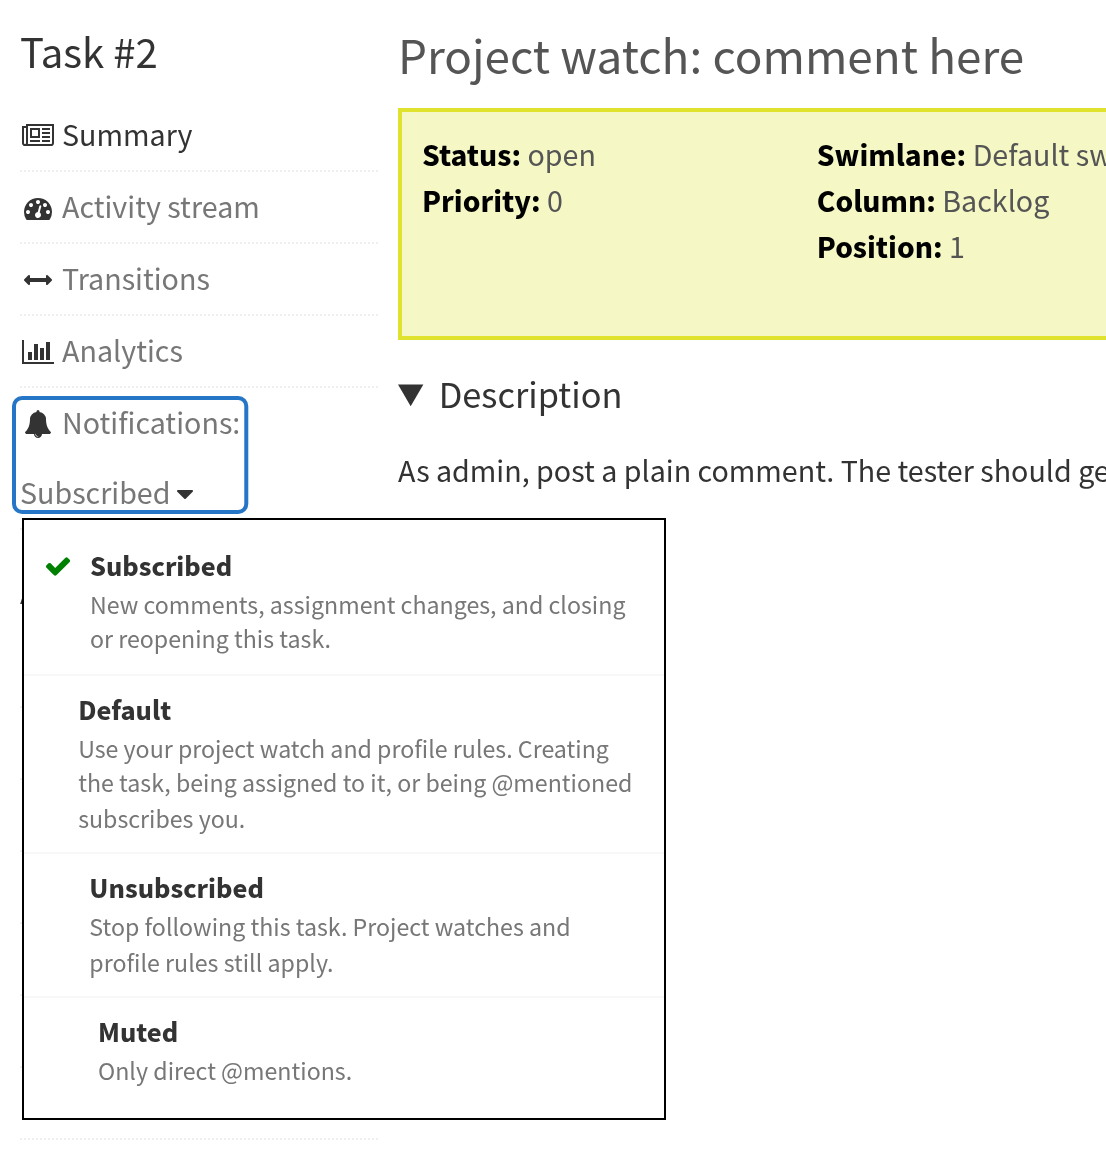
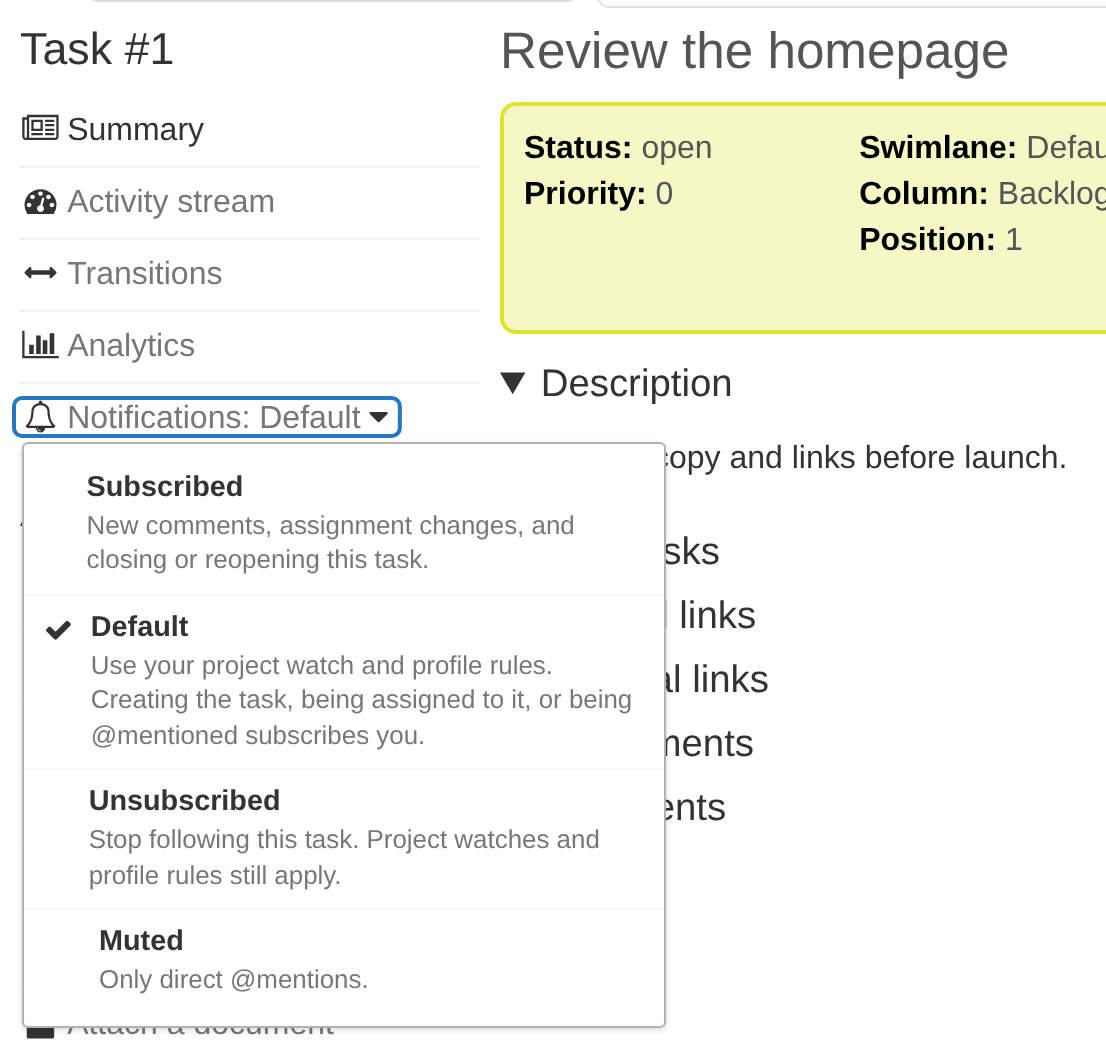
Generate notification screenshots from an isolated demo

diff --git a/scripts/screenshot-demo.php b/scripts/screenshot-demo.php
@@ -1,0 +1,40 @@
+<?php
+
+if (PHP_SAPI !== 'cli') {
+    http_response_code(404);
+    exit(1);
+}
+
+// The runner supplies a fresh data directory and runs this from the staged Plan root.
+$dataDir = getenv('DATA_DIR');
+if (!$dataDir || !is_dir($dataDir) || file_exists($dataDir.'/db.sqlite')) {
+    throw new RuntimeException('Screenshot fixtures require a fresh data directory.');
+}
+
+require getcwd().'/app/common.php';
+
+$admin = $container['userModel']->getByUsername('admin');
+$container['userSession']->initialize($admin);
+$project = $container['projectModel']->create(['name' => 'Website refresh'], $admin['id'], true);
+if (!$project) {
+    throw new RuntimeException('Could not create the demo project.');
+}
+
+$task = $container['taskCreationModel']->create([
+    'project_id' => $project,
+    'title' => 'Review the homepage',
+    'description' => 'Check the copy and links before launch.',
+]);
+$otherTask = $container['taskCreationModel']->create([
+    'project_id' => $project,
+    'title' => 'Update the navigation',
+    'color_id' => 'blue',
+]);
+
+// Creating the task auto-subscribes the demo user. Reset it to show “Default” in the screenshot.
+$preferences = $container['subscriptionModel'];
+if (!$task || !$otherTask || !$preferences->save($preferences::TASK, $task, $admin['id'], $preferences::INHERIT)) {
+    throw new RuntimeException('Could not seed the demo tasks.');
+}
+
+echo json_encode(['projectId' => $project, 'taskId' => $task], JSON_THROW_ON_ERROR), PHP_EOL;

diff --git a/README.md b/README.md
@@ -70,15 +70,15 @@ The test uses an in-memory SQLite database and captures outgoing email after cor
 
 ### Refresh the README screenshots
 
-Start `plan-docker` with this plugin mounted and open a demo project and task to find their numeric IDs. From this plugin directory, with Node.js, npm, and `just` installed, run:
+On Linux, with [devenv](https://devenv.sh/) installed and the `plan` submodule initialized in `plan-docker`, run this from the plugin directory:
 
 ```sh
-npm ci --prefix scripts
-npm exec --prefix scripts -- playwright install chromium
-just screenshots 2 2 # Replace these with your demo project and task IDs.
+devenv shell -- just screenshots
 ```
 
-The recipe logs in to `http://127.0.0.1:7000/` as the local Docker `admin` user and overwrites both WebP files in `docs/screenshots/` without changing notification preferences. Set `PLAN_SCREENSHOT_USER` and `PLAN_SCREENSHOT_PASSWORD` if you changed the development credentials. To use an existing Chromium binary instead of installing one with Playwright, set `PLAN_SCREENSHOT_CHROMIUM` to its path.
+The recipe installs the locked Playwright dependencies, exports the sibling `../plan` checkout at `HEAD`, and loads this plugin from the working tree. It seeds a demo board and task in a temporary SQLite database, starts Plan on a free loopback port, and overwrites both WebP files in `docs/screenshots/`. Both menus show their default selections. The temporary server and database are removed afterward; Docker and existing Plan data are not used.
+
+From a standalone plugin checkout, set `PLAN_SCREENSHOT_PLAN_DIR` to a Plan Git checkout with committed vendor dependencies. To capture a running `plan-docker` instance at `http://127.0.0.1:7000/` instead, run `npm ci --prefix scripts` in the devenv shell, then `just screenshots-existing <project-id> <task-id>`. That recipe uses `admin`/`admin` unless you set `PLAN_SCREENSHOT_USER` and `PLAN_SCREENSHOT_PASSWORD`.
 
 ## Releasing
 
